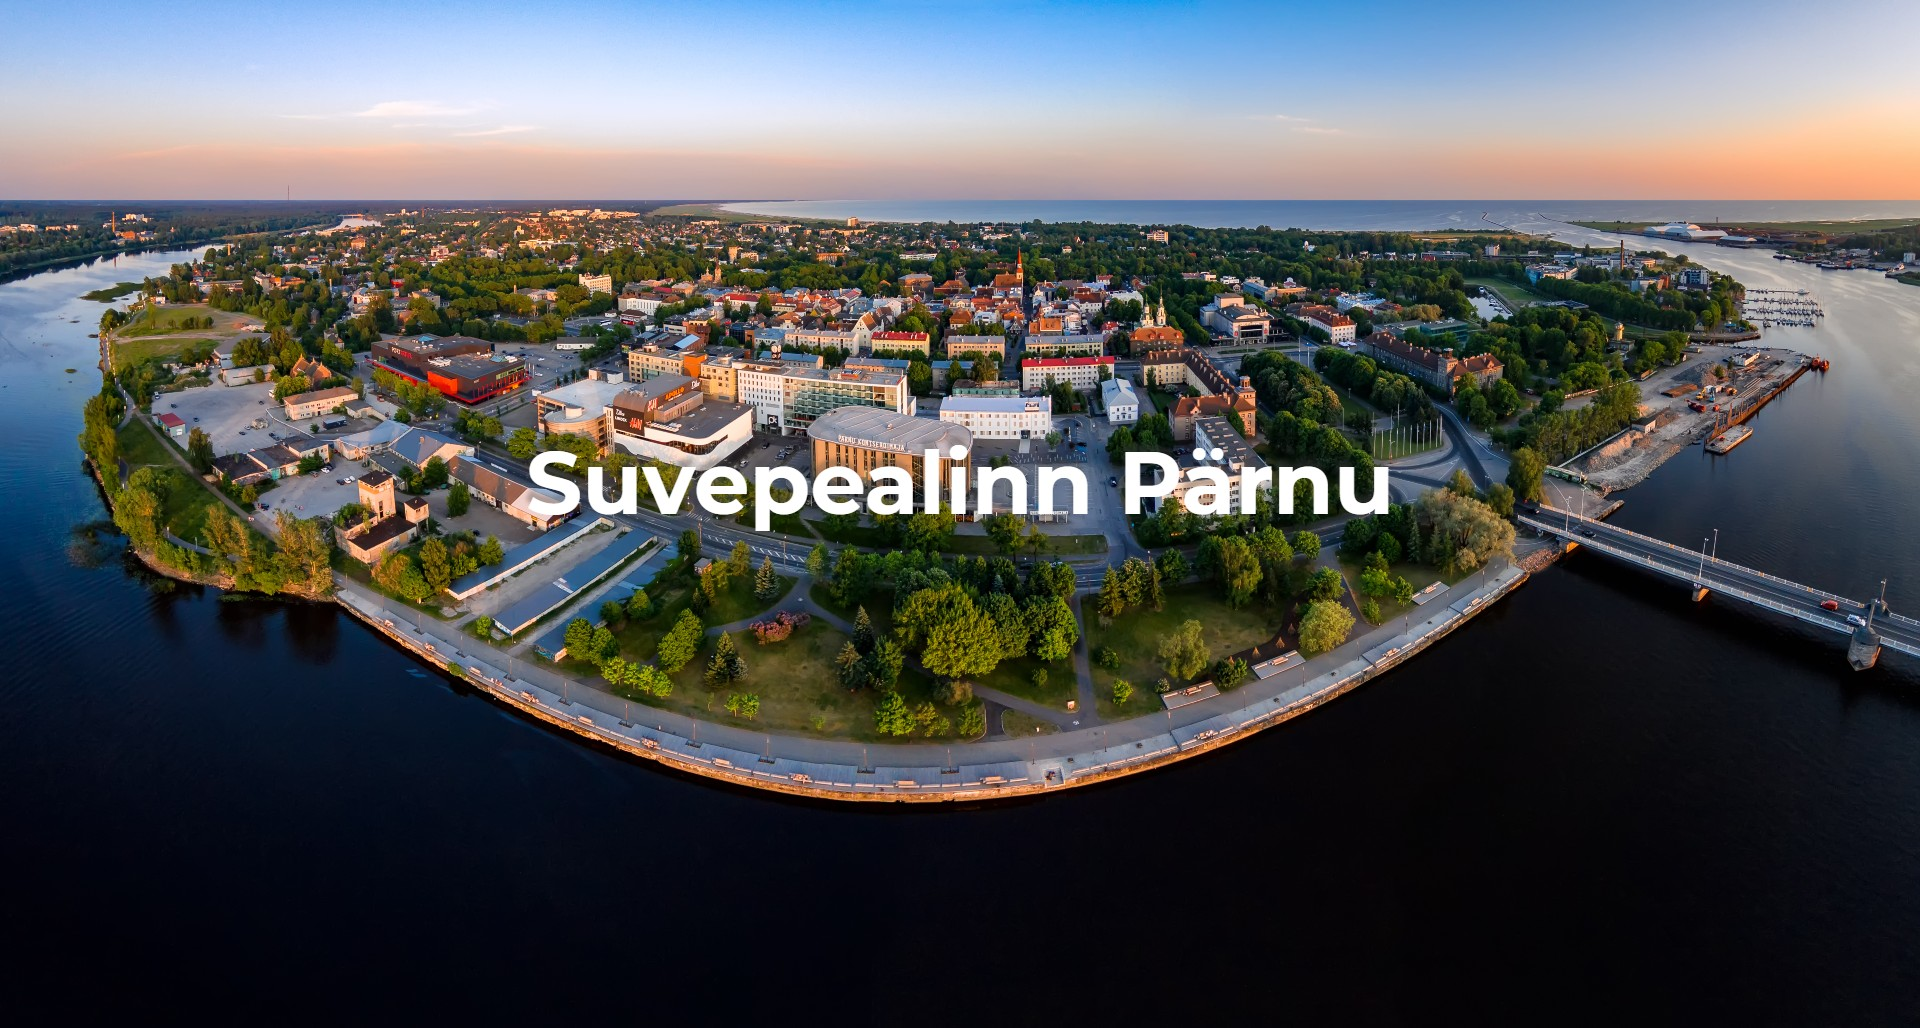
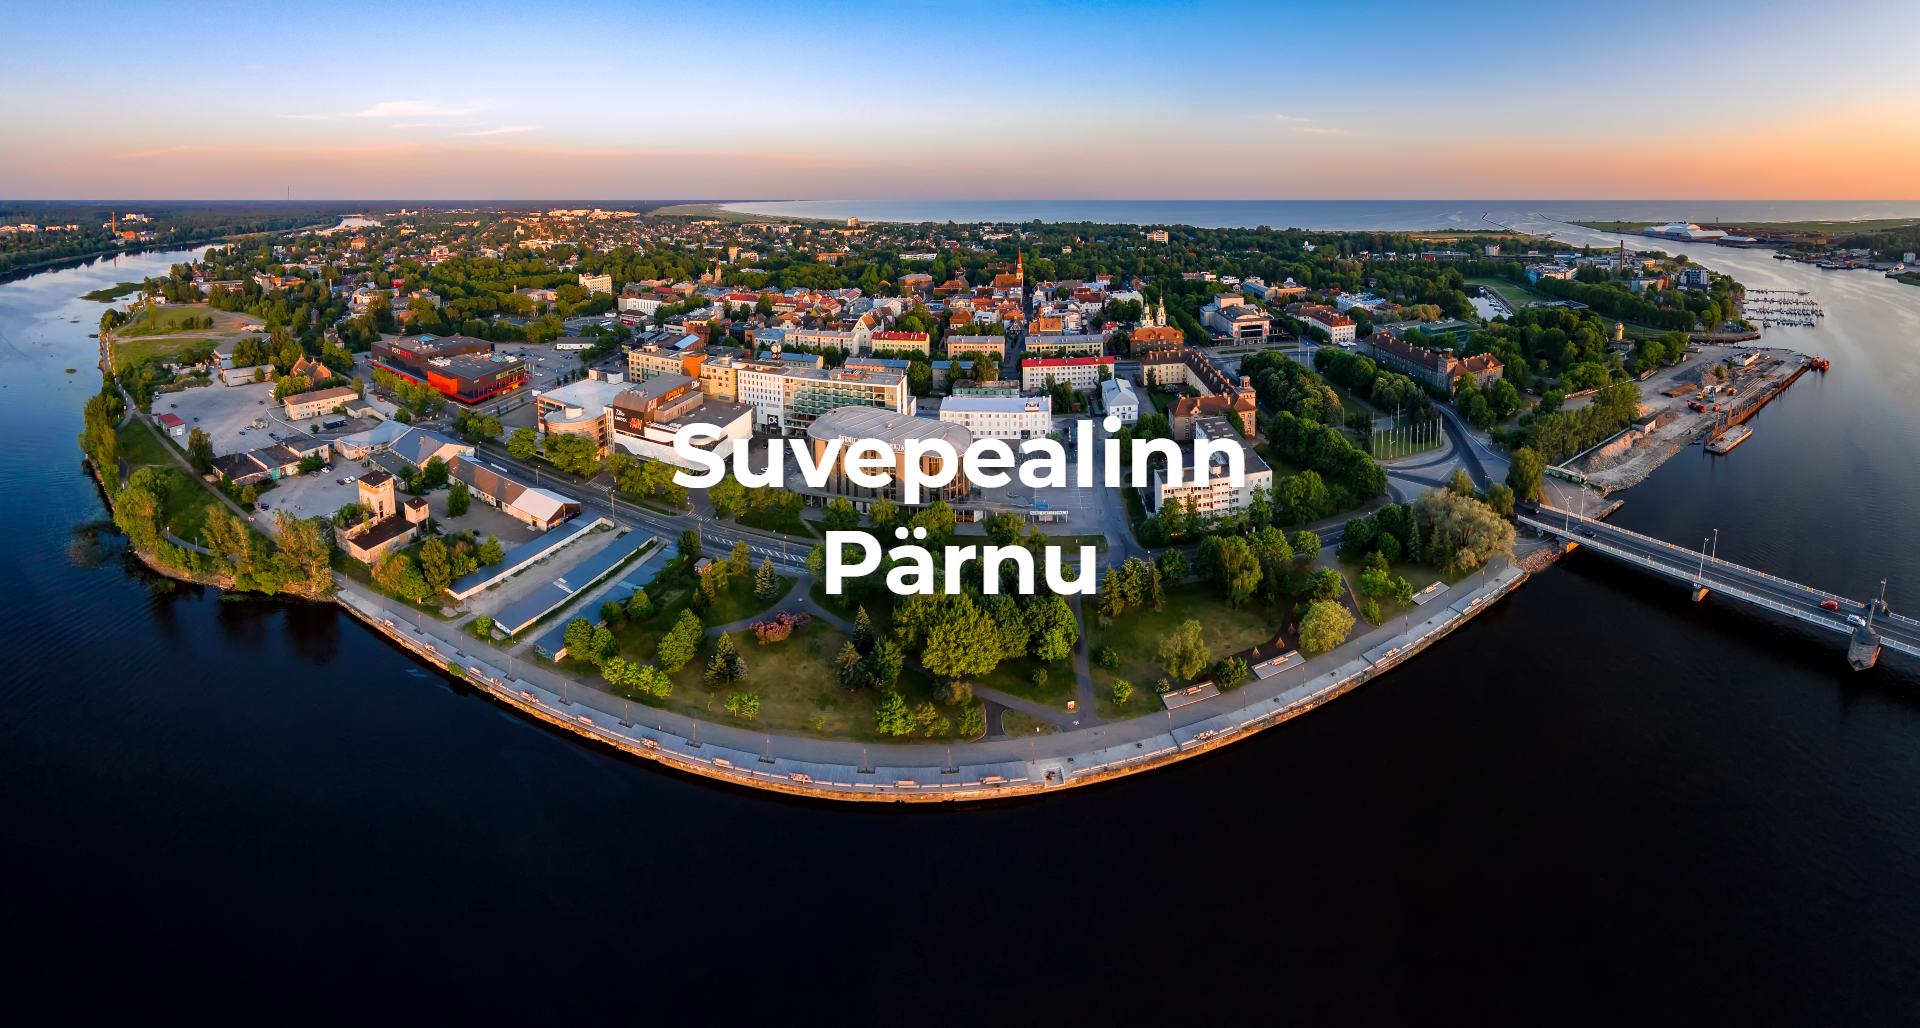
ühine

Changed region(s): [[0.25, 0.4047, 0.75, 0.5914]]

diff --git a/pärnu.html b/pärnu.html
@@ -4,46 +4,62 @@
 <link rel="preconnect" href="https://fonts.gstatic.com">
 <link href="https://fonts.googleapis.com/css2?family=Montserrat&display=swap" rel="stylesheet">
 <link rel="stylesheet" href="pärnustiil.css">
+<link rel="stylesheet" href="ühine.css">
 <meta charset="UTF-8">
 <meta name="viewport" content="width=device-width, initial-scale=1">
 <title>Pärnu</title>
 <script src='javascript.js'></script>
 </head>
+
 <body>
 
-    <div class="intro">
-    </div>
+    <div class="taust"></div>
 
-    <div class="content">
     <p>Läänemere-äärne sadamalinn on juba 1930-ndatest arendatud kuurortlinnaks ja on senini Eesti üks populaarsemaid suvituskohti, teenides sellega välja suvepealinna tiitli. Avastamist väärib Pärnu aga aasta ringi, pakkudes igaühele midagi.</p>
     <br>
     <h2>Pärnu rand</h2>
-    </div>
 
     <div class="rand">
         <p>Pärnus on ligi kahekilomeetrine rannajoon ja tänu kaunile liivarannale, madalaveelisele lahele ja kiiresti soojenevale lahele on supelrand number üks atraktsioon Pärnus. Kusjuures, Pärnu rand on üks Põhjamaade parimaid randasid alustavale surfarile. Lapsi ootab suur mänguplats, batuut ja minigolf. Samuti on rannas rataste, tõukerataste, miniautode ja muude liikumisvahendite laenutus. Ranna muudab õdusamaks ka rannapromenaad, kuhu äärde on kogunenud mitmed kohvikud, restoranid, spaad jm. Piki randa looklev promenaad muudab suvepealinna ranna ahvatlevaks isegi kehva ilmaga.</p>
     </div>
-    
     <br>
 
-    <div class="content">
     <h2>Vallikäär ja Tallinna väravad</h2>
     <p>Festivalide- ja välikontserdite hooajal tasub sammud seada Pärnu Vallikääru poole, kus toimuvad linna suurimad üritused ja festivalid. Amfiteatri-laadne kontserdipaik ootab osa saama kultuurinaudingutest. Vallikääru park võlub mõnusa promenaadi ja romantilise jalakäijate sillaga, silmailu pakub ka vallikraavi keskele rajatud Eesti kõrgeim purskkaev. Pärnu südalinna poolt tulles saab parki siseneda Tallinna väravate kaudu, mis tähistab kunagise postimaantee algust. Tegemist on ainukese 17. sajandist säilinud vallväravaga Baltikumis.</p>
     <br>
     <h2>Spaad</h2>
     <p>2019. aastal valiti Pärnu Euroopa Komisjoni poolt ellukutsutud sihtkohtade konkurssil Eesti parimaks heaolu- ja terviseturismi sihtkohaks. Üheks oluliseks võiduargumendiks oli kahtlemata Pärnu spaade valik, mida on siin ühtekokku üheksa erinevat. Valikus on heaolu- kui ka ravispaad. Lisaks asub Pärnus Eesti suurim veepark. Kõige suuremaid spaa-fänne oodatakse Pärnusse kindlasti märtsikuus, kui toimub Pärnu Spaanädal.</p>
     <br>
+    <h2>Toitlustus</h2>
+    <p>Pärnus leiab nii uhkeid restorane, kui ka häid kohvikuid ja pubisid. Käputäis söögikohtadest on:</p>
+    <ul class="vorm">
+        <li>Restoran Raimond</li>
+        <li>Kohvik Supelsaksad</li>
+        <li>Steffani pizzarestoran</li>
+        <li>Sõõriku baar</li>
+        <li>Mahedik – kohvik ökogurmaanile</li>
+    </ul>
+    <p>Vaata lisaks <a href="https://visitparnu.com/toitlustus/" target="_blank">siit</a>.</p>
+
+    <h2>Majutus</h2>
+    <p>Kaunis linn ja rohke tegevuste valik lausa sunnib Pärnusse või selle ümbrusesse ööbima jääma. Peale spaade ja hotellide on valikus ka hostelid, puhke- ja külalistemajad. </p>
+    <ul class="vorm">
+        <li>Wasa Resort spaahotell</li>
+        <li>Tervise Paradiis spaa-hotell & veekeskus</li>
+        <li>Pärnu Rannastaadioni hostel</li>
+        <li>Aisa kodumajutus</li>
+        <li>Liivaluite rannamaja</li>
+    </ul>
+    <p>Infot hindade ja muude ööbimispaikade kohta leiab <a href="https://www.booking.com/searchresults.et.html?aid=376363;label=booking-name-L%2AXf2U1sq4%2AGEkIwcLOALQS461484942861%3Apl%3Ata%3Ap1%3Ap22%2C563%2C000%3Aac%3Aap%3Aneg%3Afi%3Atikwd-65526620%3Alp9061558%3Ali%3Adec%3Adm%3Appccp%3DUmFuZG9tSVYkc2RlIyh9YfqnDqqG8nt1XFzPnqOODws;sid=b0b2c01efa8f2508d5896a02791568c6;dest_id=-2624430;dest_type=city& " target="_blank">Bookingust</a>.</p>
 
     <div class="box">
         <h2>Kas teadsid?</h2> 
-        <ul>
+        <ul class="kast">
             <li>Pärnus asub juba 50 aastat Eesti ainus naisterand.</li>
             <li>Pindala suurusega (858,07 km²) on Pärnu maailma esisajas, jättes selja taha sellised suurlinnad nagu Milano, Ateena, Viini, Buenos Airese, Barcelona, Toronto ja Hamburgi, samuti Kopenhaageni, Stockholmi ja Amsterdami.</li>
             <li>Rannahooajal on Pärnus kuus korda rohkem inimesi kui muidu.</li>
             <li>Ainsana Eesti asulatest on Pärnus linnalehmad: veiseid karjatatakse mereäärse rannaniidu hooldamiseks.</li>
         </ul>
-    </div>
-
     </div>
 
     <div class="video">
@@ -54,7 +70,7 @@
 
     <a class="weatherwidget-io" href="https://forecast7.com/en/58d4224d21/parnu-city/" data-label_1="PÄRNU" data-label_2="Nädalaprognoos" data-font="Noto Sans" >PÄRNU Nädalaprognoos</a>
     <script>
-        pärnu(document,'script','weatherwidget-io-js');
+        ilmaprognoos(document,'script','weatherwidget-io-js');
     </script> 
 
 </body>

diff --git a/pärnustiil.css b/pärnustiil.css
@@ -1,54 +1,29 @@
-html, body {
-    height: 100%; 
-    margin: 0;
-    padding: 0;
-}
-
 body {
-    font-family: 'Montserrat', sans-serif;
-    background-color: rgb(245, 209, 215);
+    background-color: rgb(240, 208, 224);
+    height: 100%;
+    margin: 0;
 }
 
-.intro {
-    background-image: url("pärnulinn.jpg");
+.taust {
+    background-image: url('pärnulinn.jpg');
     height: 100%; 
     background-position: center;
     background-repeat: no-repeat;
     background-size: cover;
+    margin-bottom: 35px;
 } 
-
-.intro h1 {
-    font-family: 'Montserrat', sans-serif;
-    color: white;
-    text-align: center;
-    font-size: 50px;
-} 
-
-.content {
-    font-family: 'Montserrat', sans-serif;
-    font-size: 20px;
-    text-align: justify;
-    margin-left: 2cm;
-    margin-right: 3.5cm;
-}
-
-.content h2 {
-    font-family: 'Montserrat', sans-serif;
-    color: black;
-    text-align: left;
-    font-size: 20px;
-    margin-left: 2cm;
-}
 
 .rand {
     font-family: 'Montserrat', sans-serif;
-    font-size: 20px;
     text-align: justify;
-    margin-left: 2cm;
-    margin-right: 15cm;
+    margin-right: 12cm;
 }
 
-ul {
+.vorm {
+    margin-left: 2cm;
+}
+
+.kast {
     font-family: 'Montserrat', sans-serif;
     text-align: justify;
     font-size: 15px;
@@ -56,15 +31,16 @@ ul {
 
 .box {
     background-color: rgb(255, 255, 255);
-    width: 95%;
     border: 10px solid rgb(0, 94, 117);
     padding: 20px;
-    margin: 20px;
-
+    margin-left: 3cm;
+    margin-right: 3cm;
+    margin-top: 1cm;
+    margin-bottom: 1cm;
 }
 
 .video {
     position: absolute;
-    right: 1.5cm;
-    top: 750px;
+    right: 2.5cm;
+    top: 670px;
 }

diff --git a/türistiil.css b/türistiil.css
@@ -1,44 +1,17 @@
-html, body {
-    height: 100%; 
-    margin: 0;
-    padding: 0;
-}
-
 body {
-    font-family: 'Montserrat', sans-serif;
     background-color: rgb(234, 250, 192);
+    height: 100%;
+    margin: 0;
 }
 
-.intro {
+.taust {
     background-image: url("türilinn.jpg");
     height: 100%; 
     background-position: center;
     background-repeat: no-repeat;
     background-size: cover;
+    margin-bottom: 35px;
 } 
-
-.intro h1 {
-    font-family: 'Montserrat', sans-serif;
-    color: white;
-    text-align: center;
-    font-size: 50px;
-} 
-
-.content {
-    font-family: 'Montserrat', sans-serif;
-    font-size: 20px;
-    text-align: justify;
-    margin-left: 2cm;
-    margin-right: 3.5cm;
-}
-
-.content h2 {
-    font-family: 'Montserrat', sans-serif;
-    color: black;
-    text-align: left;
-    font-size: 20px;
-    margin-left: 2cm;
-}
 
 .elamuspark {
     font-family: 'Montserrat', sans-serif;
@@ -60,7 +33,6 @@ ul {
     border: 10px solid rgb(113, 58, 145);
     padding: 20px;
     margin: 20px;
-
 }
 
 .video {

diff --git a/javascript.js b/javascript.js
@@ -1,20 +1,4 @@
-function narva(d,s,id) {
-    var js,fjs=d.getElementsByTagName(s)[0];if(!d.getElementById(id))
-    {js=d.createElement(s);js.id=id;js.src='https://weatherwidget.io/js/widget.min.js';fjs.parentNode.insertBefore(js,fjs);
-}}
-
-function otepää(d,s,id) {
-    var js,fjs=d.getElementsByTagName(s)[0];if(!d.getElementById(id))
-    {js=d.createElement(s);js.id=id;js.src='https://weatherwidget.io/js/widget.min.js';fjs.parentNode.insertBefore(js,fjs);
-}}
-
-function pärnu(d, s, id) {
+function ilmaprognoos(d, s, id) {
     var js,fjs=d.getElementsByTagName(s)[0];if(!d.getElementById(id))
     {js=d.createElement(s);js.id=id;js.src="https://weatherwidget.io/js/widget.min.js";fjs.parentNode.insertBefore(js,fjs);
 }}
-
-function türi(d, s, id) {
-    var js,fjs=d.getElementsByTagName(s)[0];if(!d.getElementById(id))
-    {js=d.createElement(s);js.id=id;js.src="https://weatherwidget.io/js/widget.min.js";fjs.parentNode.insertBefore(js,fjs);
-}}
-

diff --git a/ühine.css b/ühine.css
@@ -1,21 +1,47 @@
-html, body {
+html {
     height: 100%; 
     margin: 0;
-    padding: 0;
 }
 
-.content {
+p {
     font-family: 'Montserrat', sans-serif;
-    font-size: 20px;
+    margin-top: 0px;
+    margin-left: 2cm;
+    margin-right: 3.5cm;
     text-align: justify;
+}
+
+h2 {
+    
+    margin-bottom: 7px;
+    font-family: 'Montserrat', sans-serif;
     margin-left: 2cm;
     margin-right: 3.5cm;
 }
 
-.content h2 {
+h3 {
+    margin-top: 0px;
     font-family: 'Montserrat', sans-serif;
-    color: black;
-    text-align: left;
-    font-size: 20px;
     margin-left: 2cm;
+    margin-right: 3.5cm;
+}
+
+h4 {
+    margin-bottom: 0px;
+    margin-top: 0px;
+    font-family: 'Montserrat', sans-serif;
+    margin-left: 2cm;
+    margin-right: 3.5cm;
+}
+
+li {
+    text-align: left;
+    font-family: 'Montserrat', sans-serif;
+    margin-right: 0px;
+    margin-top: 0px;
+}
+
+.ul3 {
+    margin-left: 0px;
+    margin-top: 0px
 }

diff --git a/türi.html b/türi.html
@@ -7,7 +7,7 @@
 <meta charset="UTF-8">
 <meta name="viewport" content="width=device-width, initial-scale=1">
 <title>Türi</title>
-<script> src='javascript.js'</script>
+<script src='javascript.js'></script>
 </head>
 <body>
 
@@ -54,8 +54,8 @@
 
     <a class="weatherwidget-io" href="https://forecast7.com/en/58d8125d43/turi/" data-label_1="TÜRI" data-label_2="Nädalaprognoos" data-font="Noto Sans" >TÜRI Nädalaprognoos</a>
     <script>
-        türi(document,'script','weatherwidget-io-js');
-    </script>
+        ilmaprognoos(document,'script','weatherwidget-io-js');
+    </script> 
 
 </body>
 </html>

diff --git a/otepää.html b/otepää.html
@@ -92,7 +92,7 @@
 
     <a class="weatherwidget-io" href="https://forecast7.com/en/58d0626d50/otepaa/" data-label_1="OTEPÄÄ" data-label_2="Nädalaprognoos" data-font="Noto Sans" >OTEPÄÄ Nädalaprognoos</a>
     <script>
-        otepää(document,'script','weatherwidget-io-js');
+        ilmaprognoos(document,'script','weatherwidget-io-js');
     </script>
 
 </body>

diff --git a/narva.html b/narva.html
@@ -89,7 +89,7 @@
 
     <a class="weatherwidget-io" href="https://forecast7.com/en/59d3828d18/narva/" data-label_1="NARVA" data-label_2="Nädalaprognoos" data-font="Noto Sans" >NARVA Nädalaprognoos</a>
     <script>
-        narva(document,'script','weatherwidget-io-js');
+        ilmaprognoos(document,'script','weatherwidget-io-js');
     </script>
 
 </body>
